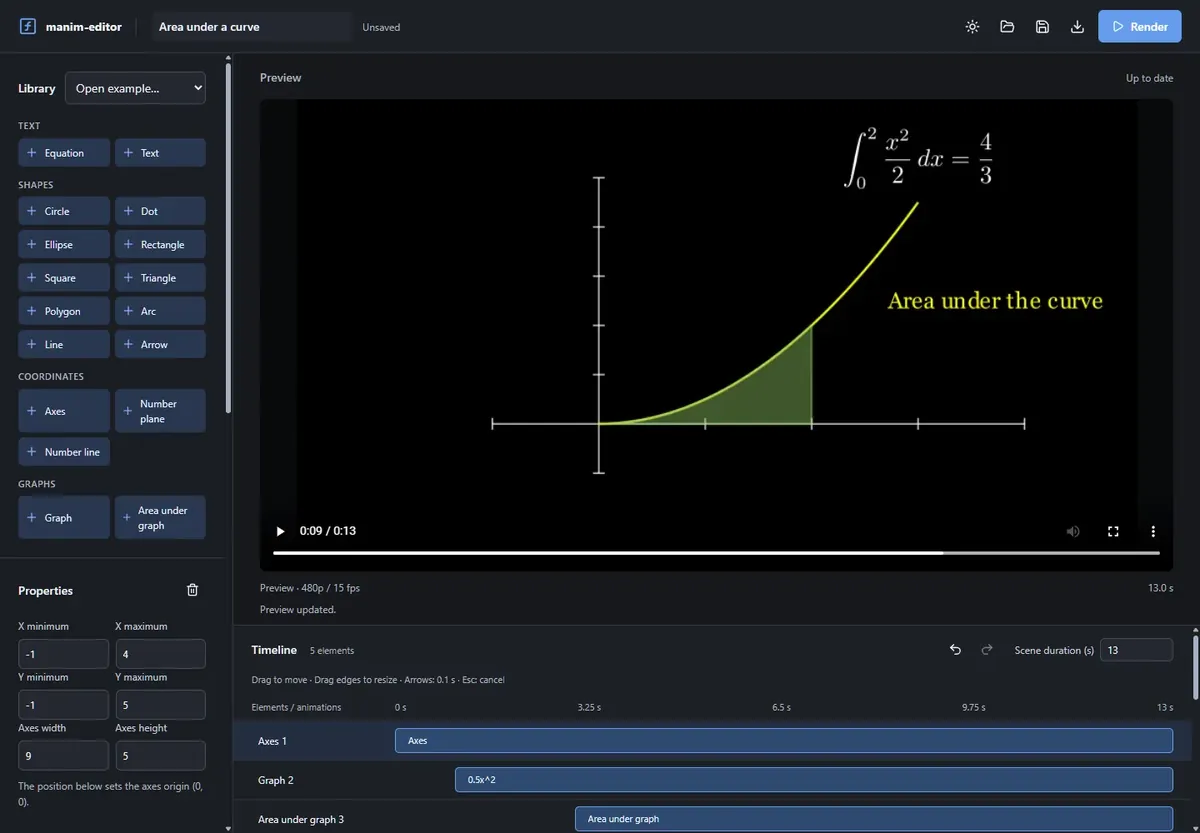
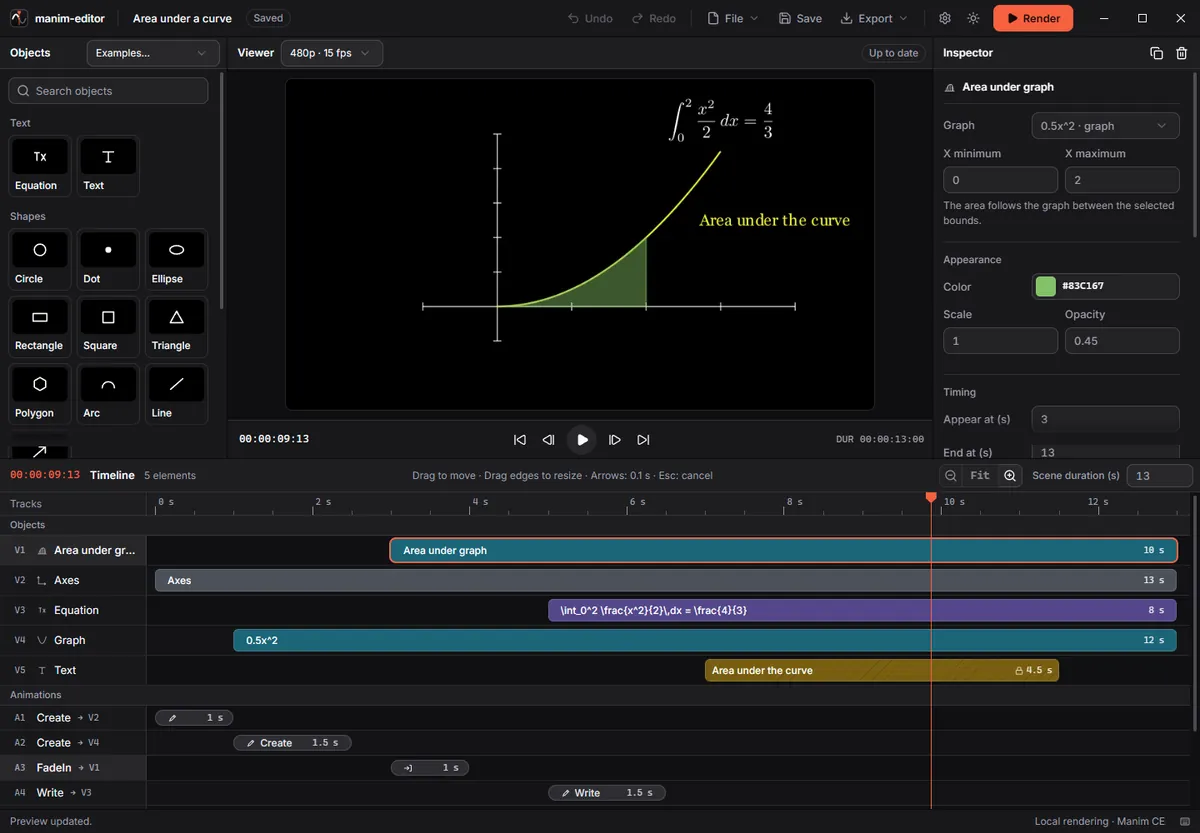
feat: new Manim Editor screenshot and Tools4Devs (ToolHaven renamed) in the project deck
- manim-editor-1200/640.webp: redesigned editor (docs/screenshots/calculus-area-dark.png from diegormirhan/manim-editor)
- tools4devs-1200/640.webp replace toolhaven-*: new catalog (docs/screenshots/catalog-dark.png from diegormirhan/tools4devs)
- deck card, alt text (en and pt-BR) and README use the Tools4Devs name; the link still points to the portfolio's toolhaven-desktop page

Claude-Session: https://claude.ai/code/session_01Txzitykopjej8pu2MZoNHt

diff --git a/README.md b/README.md
@@ -11,7 +11,7 @@ Ghost theme for [blog.diegomirhan.com](https://blog.diegomirhan.com), the blog t
 ## What it does
 
 - **Hero on the home page:** headline, a short intro, "See portfolio" and "Talk to me" (email), and the newsletter signup. The texts are editable in Ghost Admin.
-- **Project deck.** Next to the hero, five real screenshots (PolyRAG, AeroPulse, RasterScope, ToolHaven, Manim Editor) are stacked like cards.
+- **Project deck.** Next to the hero, five real screenshots (PolyRAG, AeroPulse, RasterScope, Tools4Devs, Manim Editor) are stacked like cards.
   - Every 3.6 seconds the front card slides away and the next one comes forward.
   - The caption links to the project page on the portfolio.
   - Step bars show the timing, and clicking a bar, or a card peeking from behind, jumps to that project.
